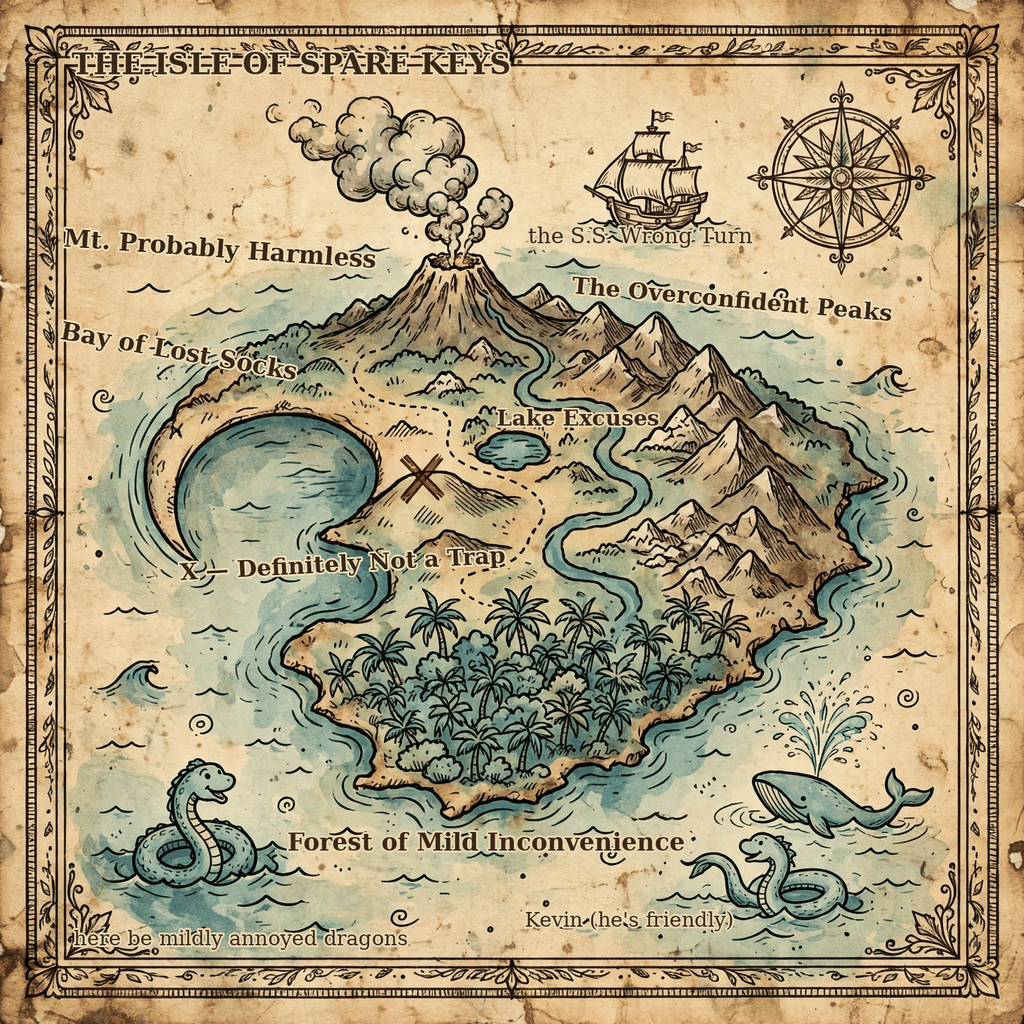
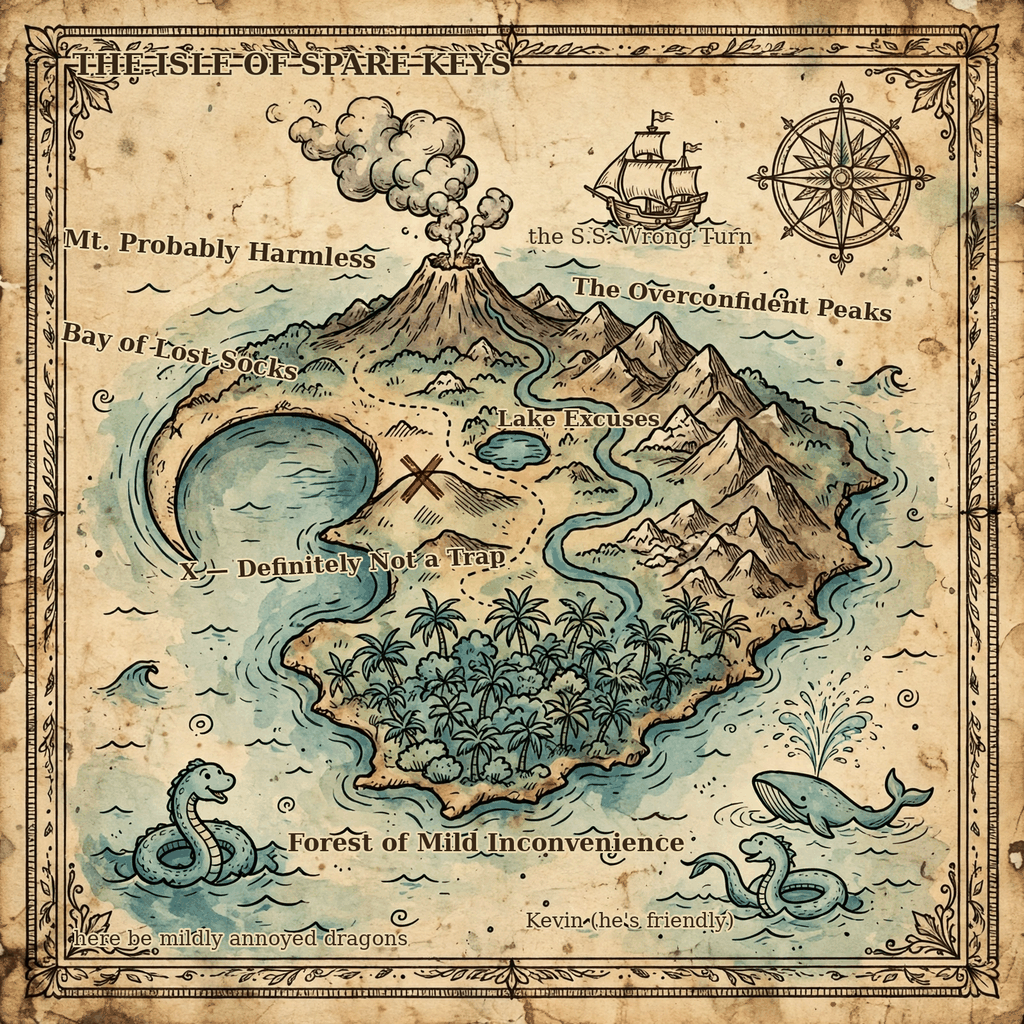
Rewrite entry code by hand and regenerate the labelled map
label_map.py restructured around a data-driven label table with its own
layer-rendering helper; main.py rewritten with explicit digest checks.
assets/map.png regenerated from the new build (1024x1024, 806076 bytes).

diff --git a/build/label_map.py b/build/label_map.py
@@ -1,71 +1,92 @@
 #!/usr/bin/env python3
-"""Build the treasure map entry image.
+"""Compose the labelled treasure map for "Charm the Cartographers".
 
-The base artwork (assets/base.webp) is an AI-drawn antique map with no
-lettering on it — generated text garbles, so every place name is
-typeset here instead, in a bold serif with a parchment halo, placed
-next to the feature it names. The island is the Isle of Spare Keys;
-its nine labeled places are:
+The AI-generated base (assets/base.webp) carries no lettering, because
+generated text comes out garbled. All wording is set here instead:
+each place name is rendered in DejaVu Serif (bold for the landmarks,
+regular for the asides) with dark ink and a parchment-coloured halo so
+it stays readable over the busy map artwork.
 
-  Mt. Probably Harmless        the volcano (it is not harmless)
-  the S.S. Wrong Turn          the ship that missed the island
-  Bay of Lost Socks            the crescent bay (single socks only)
-  Lake Excuses                 the pond, for why the gold is late
-  The Overconfident Peaks      the mountain range
-  X — Definitely Not a Trap    the hill with the X
-  Forest of Mild Inconvenience the palm forest
-  Kevin (he's friendly)        the whale
-  here be mildly annoyed dragons   the sea serpents' waters
+Labels are described in a table below as (text, x, y, point size,
+rotation in degrees, light?) where x/y are fractions of the canvas
+edge, so the layout scales with the base image. After every label is
+drawn, the canvas is downscaled to 1024x1024 and palette-quantised to
+256 colours so the PNG stays comfortably under the 1 MiB size gate.
 
-Output: assets/map.png at exactly 1024x1024, palette-quantised to
-stay under the competition's 1 MiB gate.
+Run:  python3 build/label_map.py   (writes assets/map.png)
 """
 from pathlib import Path
 
 from PIL import Image, ImageDraw, ImageFont
 
-ROOT = Path(__file__).resolve().parent.parent
-BASE = ROOT / "assets" / "base.webp"
-OUT = ROOT / "assets" / "map.png"
-FONT = "/usr/share/fonts/truetype/dejavu/DejaVuSerif-Bold.ttf"
-FONT_LIGHT = "/usr/share/fonts/truetype/dejavu/DejaVuSerif.ttf"
+HERE = Path(__file__).resolve().parent
+ROOT = HERE.parent
+SRC = ROOT / "assets" / "base.webp"
+DST = ROOT / "assets" / "map.png"
+
+BOLD = "/usr/share/fonts/truetype/dejavu/DejaVuSerif-Bold.ttf"
+REGULAR = "/usr/share/fonts/truetype/dejavu/DejaVuSerif.ttf"
+
 INK = (56, 40, 22)
-HALO = (233, 217, 176)
+GLOW = (233, 217, 176)
+STROKE = 3
+PAD = 14
 
-img = Image.open(BASE).convert("RGB")
-W, H = img.size  # 1600x1600; labels drawn at this scale, then downscaled
-
-
-def label(text, fx, fy, size, angle=0, light=False):
-    """Draw one rotated label centred near fractional position (fx, fy)."""
-    font = ImageFont.truetype(FONT_LIGHT if light else FONT, size)
-    tmp = Image.new("RGBA", (10, 10))
-    td = ImageDraw.Draw(tmp)
-    box = td.textbbox((0, 0), text, font=font, stroke_width=3)
-    tw, th = box[2] - box[0] + 24, box[3] - box[1] + 24
-    layer = Image.new("RGBA", (tw, th), (0, 0, 0, 0))
-    ld = ImageDraw.Draw(layer)
-    ld.text((12 - box[0], 12 - box[1]), text, font=font, fill=INK + (255,),
-            stroke_width=3, stroke_fill=HALO + (255,))
-    layer = layer.rotate(angle, expand=True, resample=Image.BICUBIC)
-    x = int(fx * W - layer.width / 2)
-    y = int(fy * H - layer.height / 2)
-    img.paste(layer, (x, y), layer)
+# text, centre-x, centre-y, size, angle, light (regular instead of bold)
+LABELS = [
+    ("THE ISLE OF SPARE KEYS", 0.285, 0.062, 46, 0, False),
+    ("Mt. Probably Harmless", 0.215, 0.245, 38, -4, False),
+    ("the S.S. Wrong Turn", 0.625, 0.232, 34, 0, True),
+    ("Bay of Lost Socks", 0.175, 0.345, 38, -10, False),
+    ("Lake Excuses", 0.565, 0.408, 34, 0, False),
+    ("The Overconfident Peaks", 0.715, 0.292, 36, -5, False),
+    ("X — Definitely Not a Trap", 0.335, 0.552, 36, 3, False),
+    ("Forest of Mild Inconvenience", 0.475, 0.822, 38, 0, False),
+    ("here be mildly annoyed dragons", 0.235, 0.918, 32, 0, True),
+    ("Kevin (he's friendly)", 0.615, 0.90, 32, 0, True),
+]
 
 
-label("THE ISLE OF SPARE KEYS", 0.285, 0.062, 46)
-label("Mt. Probably Harmless", 0.215, 0.245, 38, angle=-4)
-label("the S.S. Wrong Turn", 0.625, 0.232, 34, light=True)
-label("Bay of Lost Socks", 0.175, 0.345, 38, angle=-10)
-label("Lake Excuses", 0.565, 0.408, 34)
-label("The Overconfident Peaks", 0.715, 0.292, 36, angle=-5)
-label("X — Definitely Not a Trap", 0.335, 0.552, 36, angle=3)
-label("Forest of Mild Inconvenience", 0.475, 0.822, 38)
-label("here be mildly annoyed dragons", 0.235, 0.918, 32, light=True)
-label("Kevin (he's friendly)", 0.615, 0.90, 32, light=True)
+def make_label_layer(text, size, light):
+    """Render one label onto its own transparent layer."""
+    font = ImageFont.truetype(REGULAR if light else BOLD, size)
+    probe = ImageDraw.Draw(Image.new("RGBA", (1, 1)))
+    left, top, right, bottom = probe.textbbox(
+        (0, 0), text, font=font, stroke_width=STROKE)
+    layer = Image.new(
+        "RGBA", (right - left + 2 * PAD, bottom - top + 2 * PAD),
+        (0, 0, 0, 0))
+    draw = ImageDraw.Draw(layer)
+    draw.text((PAD - left, PAD - top), text, font=font,
+              fill=INK + (255,), stroke_width=STROKE,
+              stroke_fill=GLOW + (255,))
+    return layer
 
-img = img.resize((1024, 1024), Image.LANCZOS)
-img = img.quantize(colors=256, method=Image.MEDIANCUT,
-                   dither=Image.FLOYDSTEINBERG)
-img.save(OUT, optimize=True)
-print("saved", OUT)
+
+def compose():
+    canvas = Image.open(SRC).convert("RGB")
+    width, height = canvas.size
+    for text, fx, fy, size, angle, light in LABELS:
+        layer = make_label_layer(text, size, light)
+        if angle:
+            layer = layer.rotate(angle, expand=True,
+                                 resample=Image.BICUBIC)
+        px = round(fx * width - layer.width / 2)
+        py = round(fy * height - layer.height / 2)
+        canvas.paste(layer, (px, py), layer)
+    return canvas
+
+
+def main():
+    canvas = compose()
+    canvas = canvas.resize((1024, 1024), Image.LANCZOS)
+    palette_img = canvas.quantize(
+        colors=256, method=Image.MEDIANCUT, dither=Image.FLOYDSTEINBERG)
+    palette_img.save(DST, optimize=True)
+    size = DST.stat().st_size
+    print(f"wrote {DST} ({size} bytes)")
+    assert size < 1024 * 1024, "map.png exceeds the 1 MiB gate"
+
+
+if __name__ == "__main__":
+    main()

diff --git a/main.py b/main.py
@@ -1,37 +1,49 @@
 #!/usr/bin/env python3
-"""Entry program for make.fun "Charm the Cartographers".
+"""Publish the finished treasure map as the competition entry.
 
-The treasure map is composed ahead of time by build/label_map.py and
-stored in assets/map.png. This program's only job is to publish those
-exact bytes to /output/entry.png, so every run of the entry produces
-the identical map.
+The map itself is composed ahead of time by build/label_map.py and
+committed as assets/map.png. This entry program performs no drawing:
+it copies those committed bytes to /output/entry.png and then reads
+the copy back to confirm its SHA-256 matches the source, guaranteeing
+the judged file is exactly the map that was reviewed.
+
+Exit status is 0 on success, 1 if the source is missing or the copy
+does not verify.
 """
 import hashlib
 import sys
 from pathlib import Path
 
-ROOT = Path(__file__).resolve().parent
-SOURCE = ROOT / "assets" / "map.png"
-DEST_DIR = Path("/output")
-DEST = DEST_DIR / "entry.png"
+ENTRY_DIR = Path(__file__).resolve().parent
+MAP_FILE = ENTRY_DIR / "assets" / "map.png"
+OUT_DIR = Path("/output")
+OUT_FILE = OUT_DIR / "entry.png"
 
 
-def publish() -> int:
-    if not SOURCE.is_file():
-        print(f"source image missing: {SOURCE}", file=sys.stderr)
-        return 1
-    payload = SOURCE.read_bytes()
-    DEST_DIR.mkdir(parents=True, exist_ok=True)
-    with DEST.open("wb") as fh:
-        fh.write(payload)
-    written = DEST.read_bytes()
-    if hashlib.sha256(written).digest() != hashlib.sha256(payload).digest():
-        print("verification failed: written bytes differ from source",
+def digest(data: bytes) -> str:
+    return hashlib.sha256(data).hexdigest()
+
+
+def run() -> int:
+    if not MAP_FILE.exists():
+        print(f"error: committed map not found at {MAP_FILE}",
               file=sys.stderr)
         return 1
-    print(f"published {DEST} ({len(written)} bytes, sha256 verified)")
+
+    blob = MAP_FILE.read_bytes()
+    OUT_DIR.mkdir(parents=True, exist_ok=True)
+    OUT_FILE.write_bytes(blob)
+
+    copied = OUT_FILE.read_bytes()
+    if digest(copied) != digest(blob):
+        print("error: /output/entry.png failed SHA-256 verification",
+              file=sys.stderr)
+        return 1
+
+    print(f"entry.png written: {len(copied)} bytes, "
+          f"sha256 {digest(copied)}")
     return 0
 
 
 if __name__ == "__main__":
-    raise SystemExit(publish())
+    sys.exit(run())
